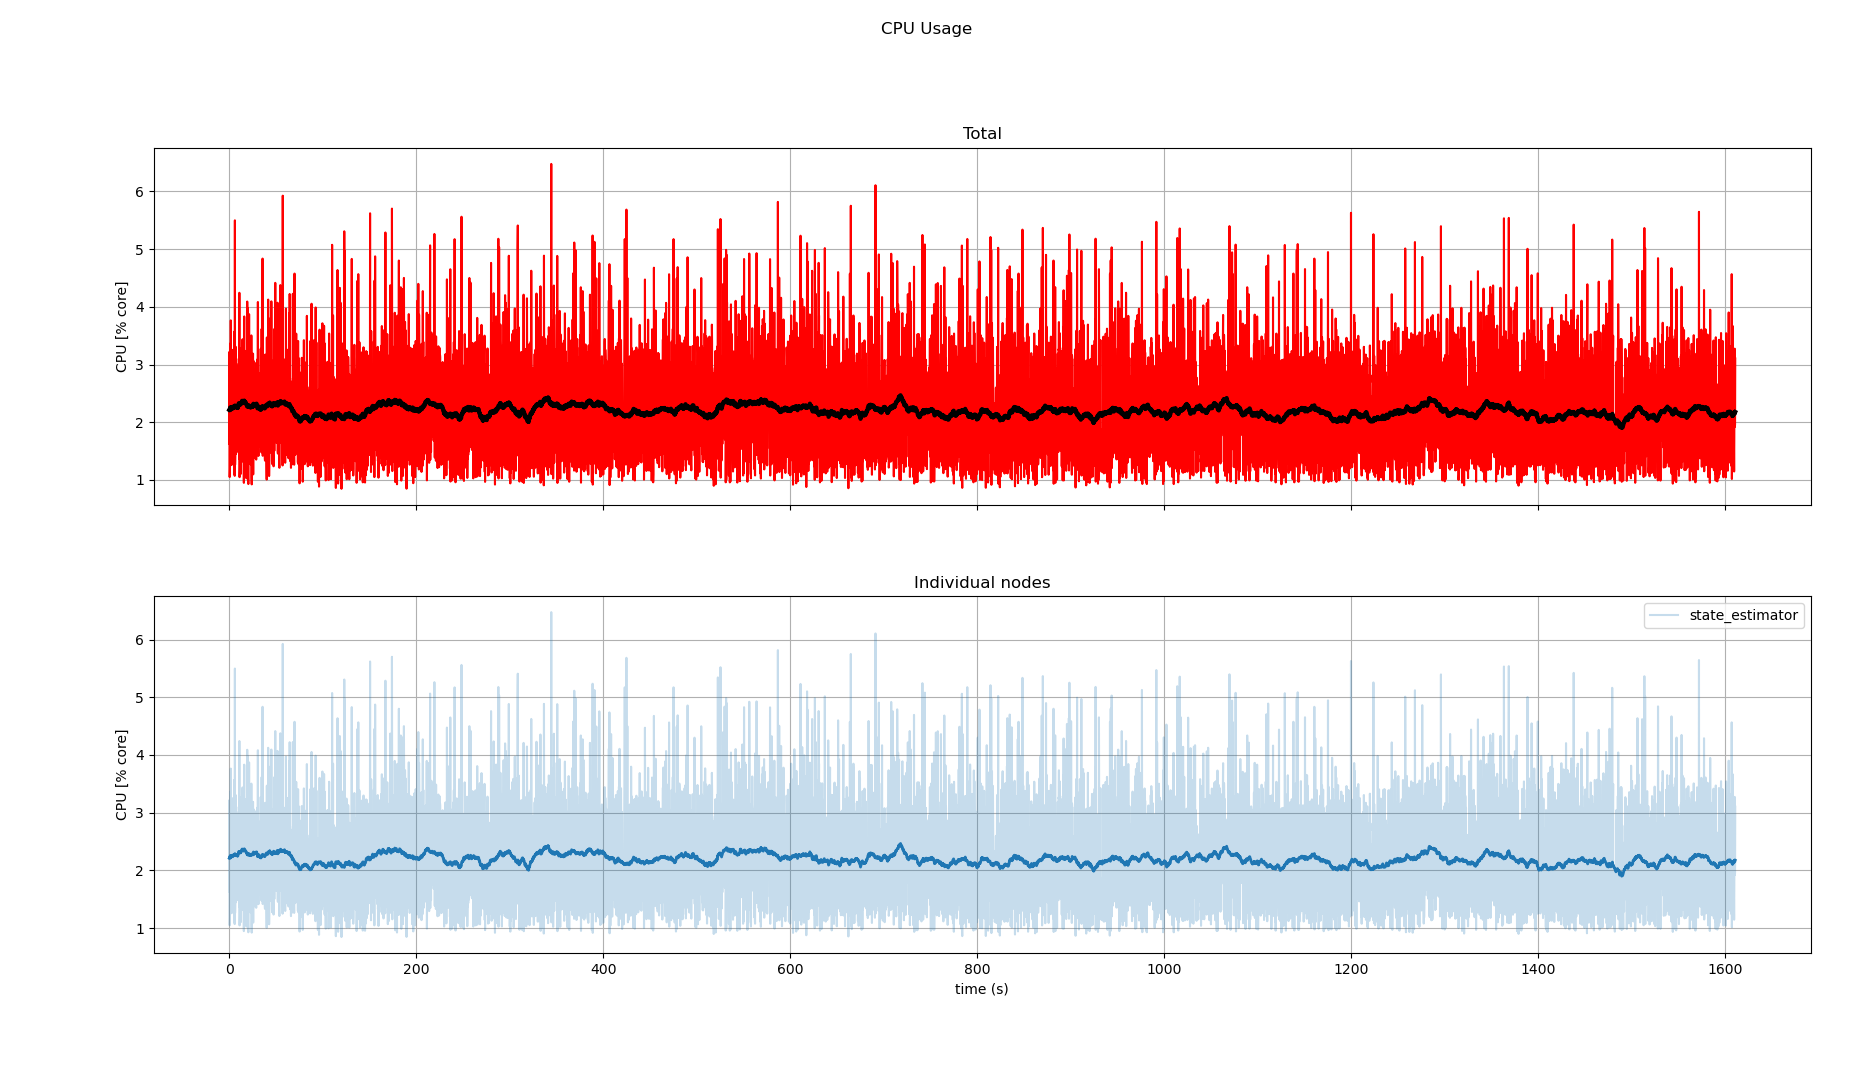
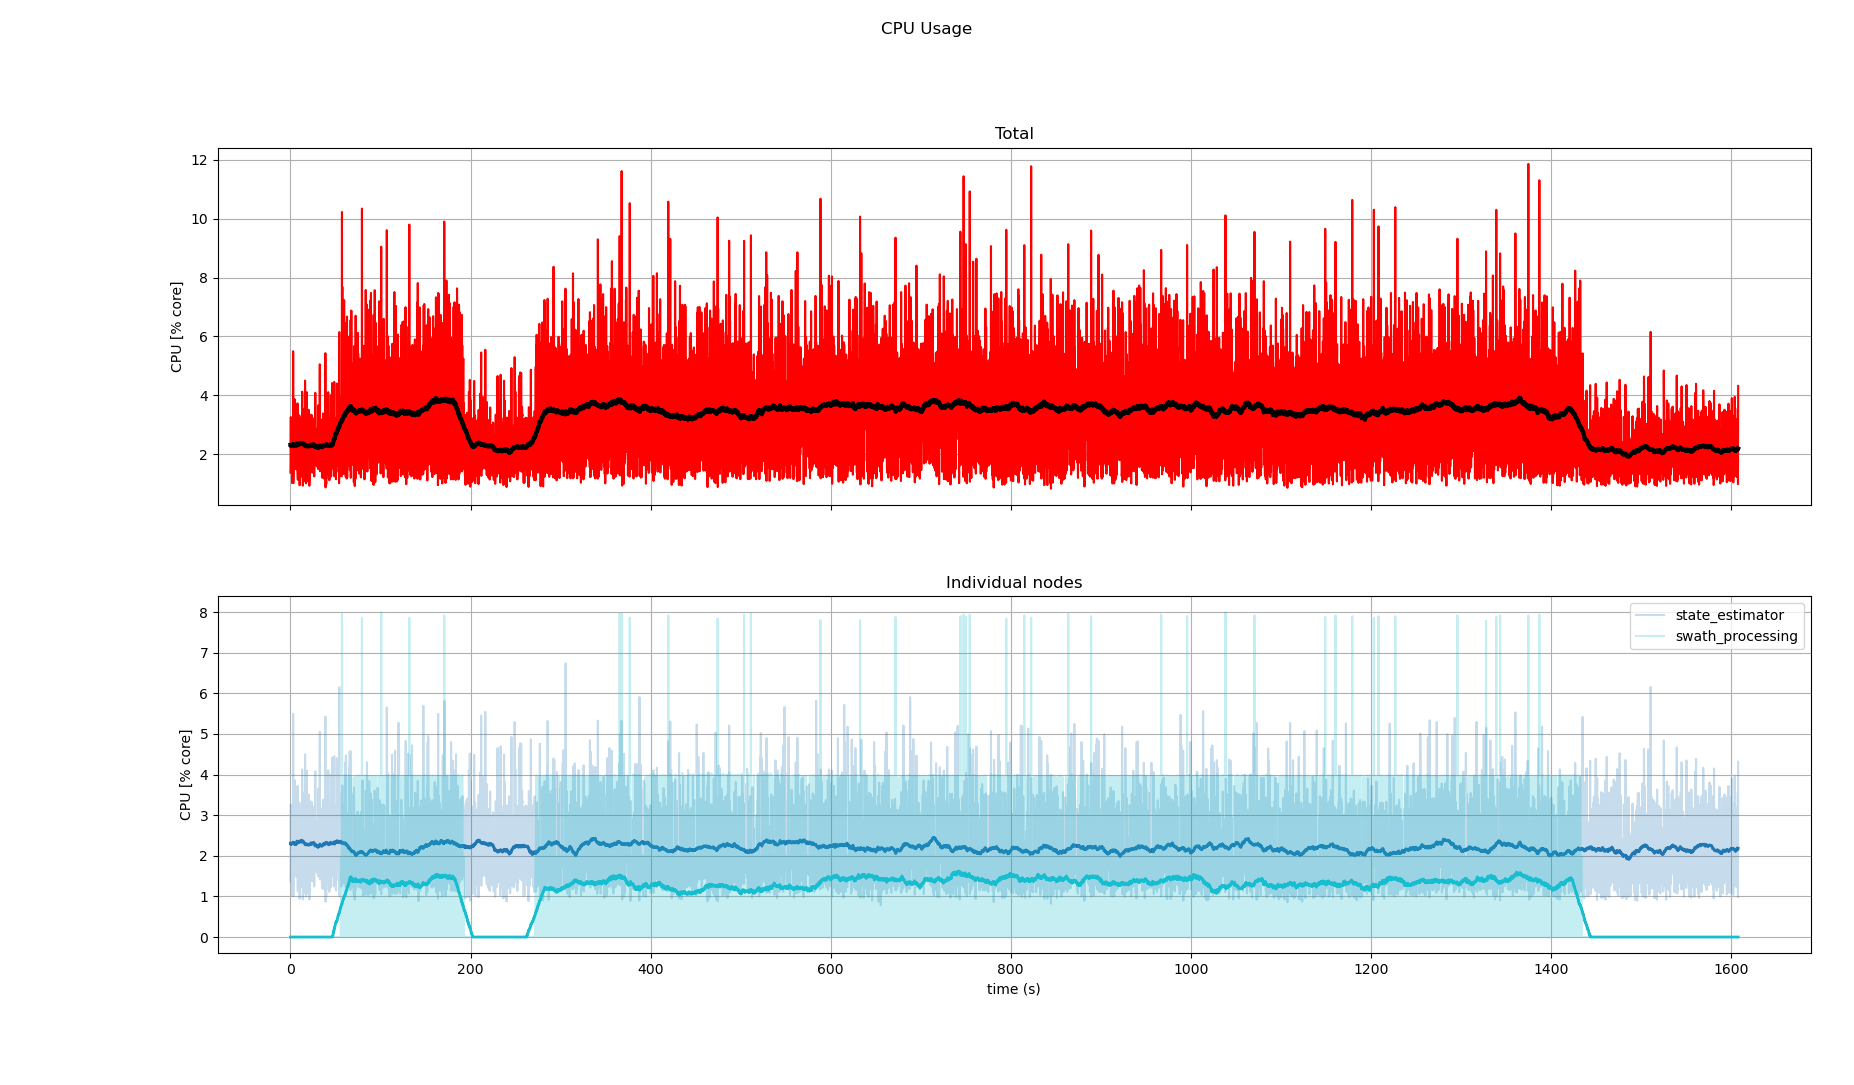
finished swath processing cleanup, now document it in READMEas

diff --git a/analysis/utils.py b/analysis/utils.py
@@ -11,36 +11,103 @@ def resolve_dataset_paths(datasets):
         resolved[name] = os.path.abspath(os.path.join(ROOT, "..", rel_path))
     return resolved
 
-def load_perf(path):
+def load_perf(path, t_start, t_stop, t_delta=5.0):
     df = pd.read_csv(path)
+    df = df.copy().sort_values("t").reset_index(drop=True)
 
-    t0 = df["t"].iloc[0]
-    df["t_rel"] = df["t"] - t0
+    rows = []
+    last_t = t_start
 
+    for _, row in df.iterrows():
+        t = row["t"]
+
+        if t < t_start or t > t_stop:
+            continue
+
+        if t - last_t > t_delta:
+            rows.append({
+                "t": last_t,
+                "cpu_percent": 0.0,
+                "ram_mb": 0.0,
+                "runtime_s": 0.0,
+            })
+            rows.append({
+                "t": t,
+                "cpu_percent": 0.0,
+                "ram_mb": 0.0,
+                "runtime_s": 0.0,
+            })
+
+        rows.append({
+            "t": t,
+            "cpu_percent": row["cpu_percent"],
+            "ram_mb": row["ram_mb"],
+            "runtime_s": row["runtime_s"],
+        })
+
+        last_t = t
+
+    if len(rows) == 0:
+        rows = [{
+            "t": t_start,
+            "cpu_percent": 0.0,
+            "ram_mb": 0.0,
+            "runtime_s": 0.0,
+        }]
+
+    if t_stop - last_t > t_delta:
+        rows.append({
+            "t": last_t,
+            "cpu_percent": 0.0,
+            "ram_mb": 0.0,
+            "runtime_s": 0.0,
+        })
+        rows.append({
+            "t": t_stop,
+            "cpu_percent": 0.0,
+            "ram_mb": 0.0,
+            "runtime_s": 0.0,
+        })
+
+    df = pd.DataFrame(rows)
+    df["t_rel"] = df["t"] - t_start
     return df
 
-def resample_perf(df, window):
-    bins = np.arange(df["t_rel"].min(), df["t_rel"].max(), window)
+
+def resample_perf(df, window, t_start, t_stop):
+    t_rel_stop = t_stop - t_start
+    bins = np.arange(0.0, t_rel_stop + window, window)
 
     df = df.copy()
-    df["bin"] = np.digitize(df["t_rel"], bins)
+    df["bin"] = np.digitize(df["t_rel"], bins) - 1
+    df = df[(df["bin"] >= 0) & (df["bin"] < len(bins) - 1)]
 
     g = df.groupby("bin").mean(numeric_only=True)
 
+    cpu = np.zeros(len(bins) - 1)
+    ram = np.zeros(len(bins) - 1)
+    runtime = np.zeros(len(bins) - 1)
+
+    idx = g.index.to_numpy(dtype=int)
+    cpu[idx] = g["cpu_percent"].to_numpy()
+    ram[idx] = g["ram_mb"].to_numpy()
+    runtime[idx] = g["runtime_s"].to_numpy() * 1000.0
+
     return {
-        "t": bins[:len(g)],
-        "cpu": g["cpu_percent"].values,
-        "ram": g["ram_mb"].values,
-        "runtime": g["runtime_s"].values * 1000
+        "t": bins[:-1],
+        "cpu": cpu,
+        "ram": ram,
+        "runtime": runtime
     }
 
-def load_all_perf(datasets, window):
+
+def load_all_perf(datasets, window, t_start, t_stop, t_delta=5.0):
     data = {}
     paths = resolve_dataset_paths(datasets)
 
     for name, path in paths.items():
-        df = load_perf(path)
-        data[name] = resample_perf(df, window)
+        df = load_perf(path, t_start, t_stop, t_delta)
+        data[name] = resample_perf(df, window, t_start, t_stop)
 
     return data
 
@@ -60,7 +127,6 @@ def add_sliding_mean(ax, x, y, window=100, color="black", linewidth=2.5):
         color=color,
         linewidth=linewidth
     )
-
 
 def plot_metric(data, key, ylabel, title, total_color="black", window=100):
 

diff --git a/src/sss_data_processing/state_estimator/state_estimator/state_estimator_node.py b/src/sss_data_processing/state_estimator/state_estimator/state_estimator_node.py
@@ -188,6 +188,8 @@ class StateEstimatorNode(Node):
         # If Logging flag is enabled we add a logger for post processing purposes
         # Then we can analyze data later down the line to debug state estimator
         if self.LOG:
+            self.performance_logger = PerformanceLogger()
+
             self.state_estimate_logger = StateEstimateLogger()
 
             self.nis_ahrs_logger  = NISLogger(datafile_name="ahrs")
@@ -196,9 +198,7 @@ class StateEstimatorNode(Node):
             self.nis_gps_logger   = NISLogger(datafile_name="gps")
 
             self.benchmark_logger = BenchmarkLogger()
-            self.sub_benchmark = self.create_subscription(Odometry, '/benchmark/state_estimate', self.benchmark_callback, 1)
-
-            self.performance_logger = PerformanceLogger()
+            self.sub_benchmark = self.create_subscription(Odometry, '/benchmark/state_estimate', self.benchmark_callback, 1)            
     # INITIALIZE (STOP) --------------------------------------------------
 
     # Topic Handlers (START) --------------------------------------------------
@@ -264,12 +264,12 @@ class StateEstimatorNode(Node):
 
         # This only runs if "log" flag was activated during ROS launch
         if self.LOG:
+            self.performance_logger.stop(t)
+
             innovation = self.ukf.innovation
             S = self.ukf.S
             nis_ahrs = float(innovation.T @ np.linalg.solve(S, innovation))
             self.nis_ahrs_log_data(t, nis_ahrs)
-
-            self.performance_logger.stop(t)
 
     def depth_callback(self, msg: PointStamped):
         # This only runs if "log" flag was activated during ROS launch
@@ -310,12 +310,12 @@ class StateEstimatorNode(Node):
 
         # This only runs if "log" flag was activated during ROS launch
         if self.LOG:
+            self.performance_logger.stop(t)
+
             innovation = self.ukf.innovation
             S = self.ukf.S
             nis_depth = float(innovation.T @ np.linalg.solve(S, innovation))
-            self.nis_depth_log_data(t, nis_depth)
-
-            self.performance_logger.stop(t)
+            self.nis_depth_log_data(t, nis_depth)            
 
     def dvl_callback(self, msg: Dvl):
         # This only runs if "log" flag was activated during ROS launch
@@ -367,12 +367,12 @@ class StateEstimatorNode(Node):
 
         # This only runs if "log" flag was activated during ROS launch
         if self.LOG:
+            self.performance_logger.stop(t)
+
             innovation = self.ukf.innovation
             S = self.ukf.S
             nis_dvl = float(innovation.T @ np.linalg.solve(S, innovation))
             self.nis_dvl_log_data(t, nis_dvl)
-
-            self.performance_logger.stop(t)
     
     def gps_callback(self, msg: NavSatFix):
         # This only runs if "log" flag was activated during ROS launch
@@ -438,12 +438,12 @@ class StateEstimatorNode(Node):
 
         # This only runs if "log" flag was activated during ROS launch
         if self.LOG:
+            self.performance_logger.stop(t)
+
             innovation = self.ukf.innovation
             S = self.ukf.S
             nis_gps = float(innovation.T @ np.linalg.solve(S, innovation))
             self.nis_gps_log_data(t, nis_gps)
-
-            self.performance_logger.stop(t)
 
     # This callback will only work in if the "log" flag is set
     def benchmark_callback(self, msg: Odometry):

diff --git a/src/sss_data_processing/local_map_generator/rust/swath_processing_node/src/main.rs b/src/sss_data_processing/local_map_generator/rust/swath_processing_node/src/main.rs
@@ -67,7 +67,8 @@ async fn main() -> Result<(), Box<dyn std::error::Error>> {
 
     // Parameters ----------
     #[allow(non_snake_case)]
-    let LOG = node.get_parameter::<bool>("log").ok().unwrap_or(false) as bool;
+    // ! TRUE LOG ! let LOG = node.get_parameter::<bool>("log").ok().unwrap_or(false) as bool;
+    let LOG = false; // ! THIS IS FAKE LOG FOR DEBUGGING, REMOVE IT LATER AND UNCOMMENT THE "! TRUE LOG !" TO GO BACK TO NORMAL
     let max_range = node.get_parameter::<f64>("swath_processing.max_range").ok().unwrap_or(0.0) as f64;
     let illumination_ema_period = node.get_parameter::<i64>("swath_processing.illumination_ema_period").ok().unwrap_or(0) as usize;
     let transducer_port_pose_position_x = node.get_parameter::<f64>("swath_processing.transducers.port.pose.position.x").ok().unwrap_or(0.0) as f64;
@@ -371,9 +372,6 @@ async fn main() -> Result<(), Box<dyn std::error::Error>> {
             if let Some(l) = &mut logger_swath_processed {
                 l.log(t, &swath_processed.port, &swath_processed.starboard);
             }
-
-            // ! Debugging
-            r2r::log_info!("swath_processing_node", "Swath Processed at timestamp: {:.4}", t);
 
             return future::ready(());
         }

diff --git a/analysis/plot_performance.py b/analysis/plot_performance.py
@@ -1,14 +1,21 @@
 from utils import load_all_perf, plot_metric
 
+
+
 WINDOW = 0.2
+T_START = 1756381030.0
+T_STOP  = 1756382638.0
+T_DELTA = 5.0
 
 DATASETS = {
     "state_estimator": "src/sss_data_processing/state_estimator/logs/data/performance_20260313_033514.csv",
+    "swath_processing": "src/sss_data_processing/local_map_generator/logs/data/swath/performance_1774210408.csv",
 }
 
-def main():
 
-    data = load_all_perf(DATASETS, WINDOW)
+
+def main():
+    data = load_all_perf(DATASETS, WINDOW, T_START, T_STOP, T_DELTA)
 
     plot_metric(data, "runtime", "Runtime [ms]", "Callback Runtime", total_color="blue")
     plot_metric(data, "cpu", "CPU [% core]", "CPU Usage", total_color="red")
